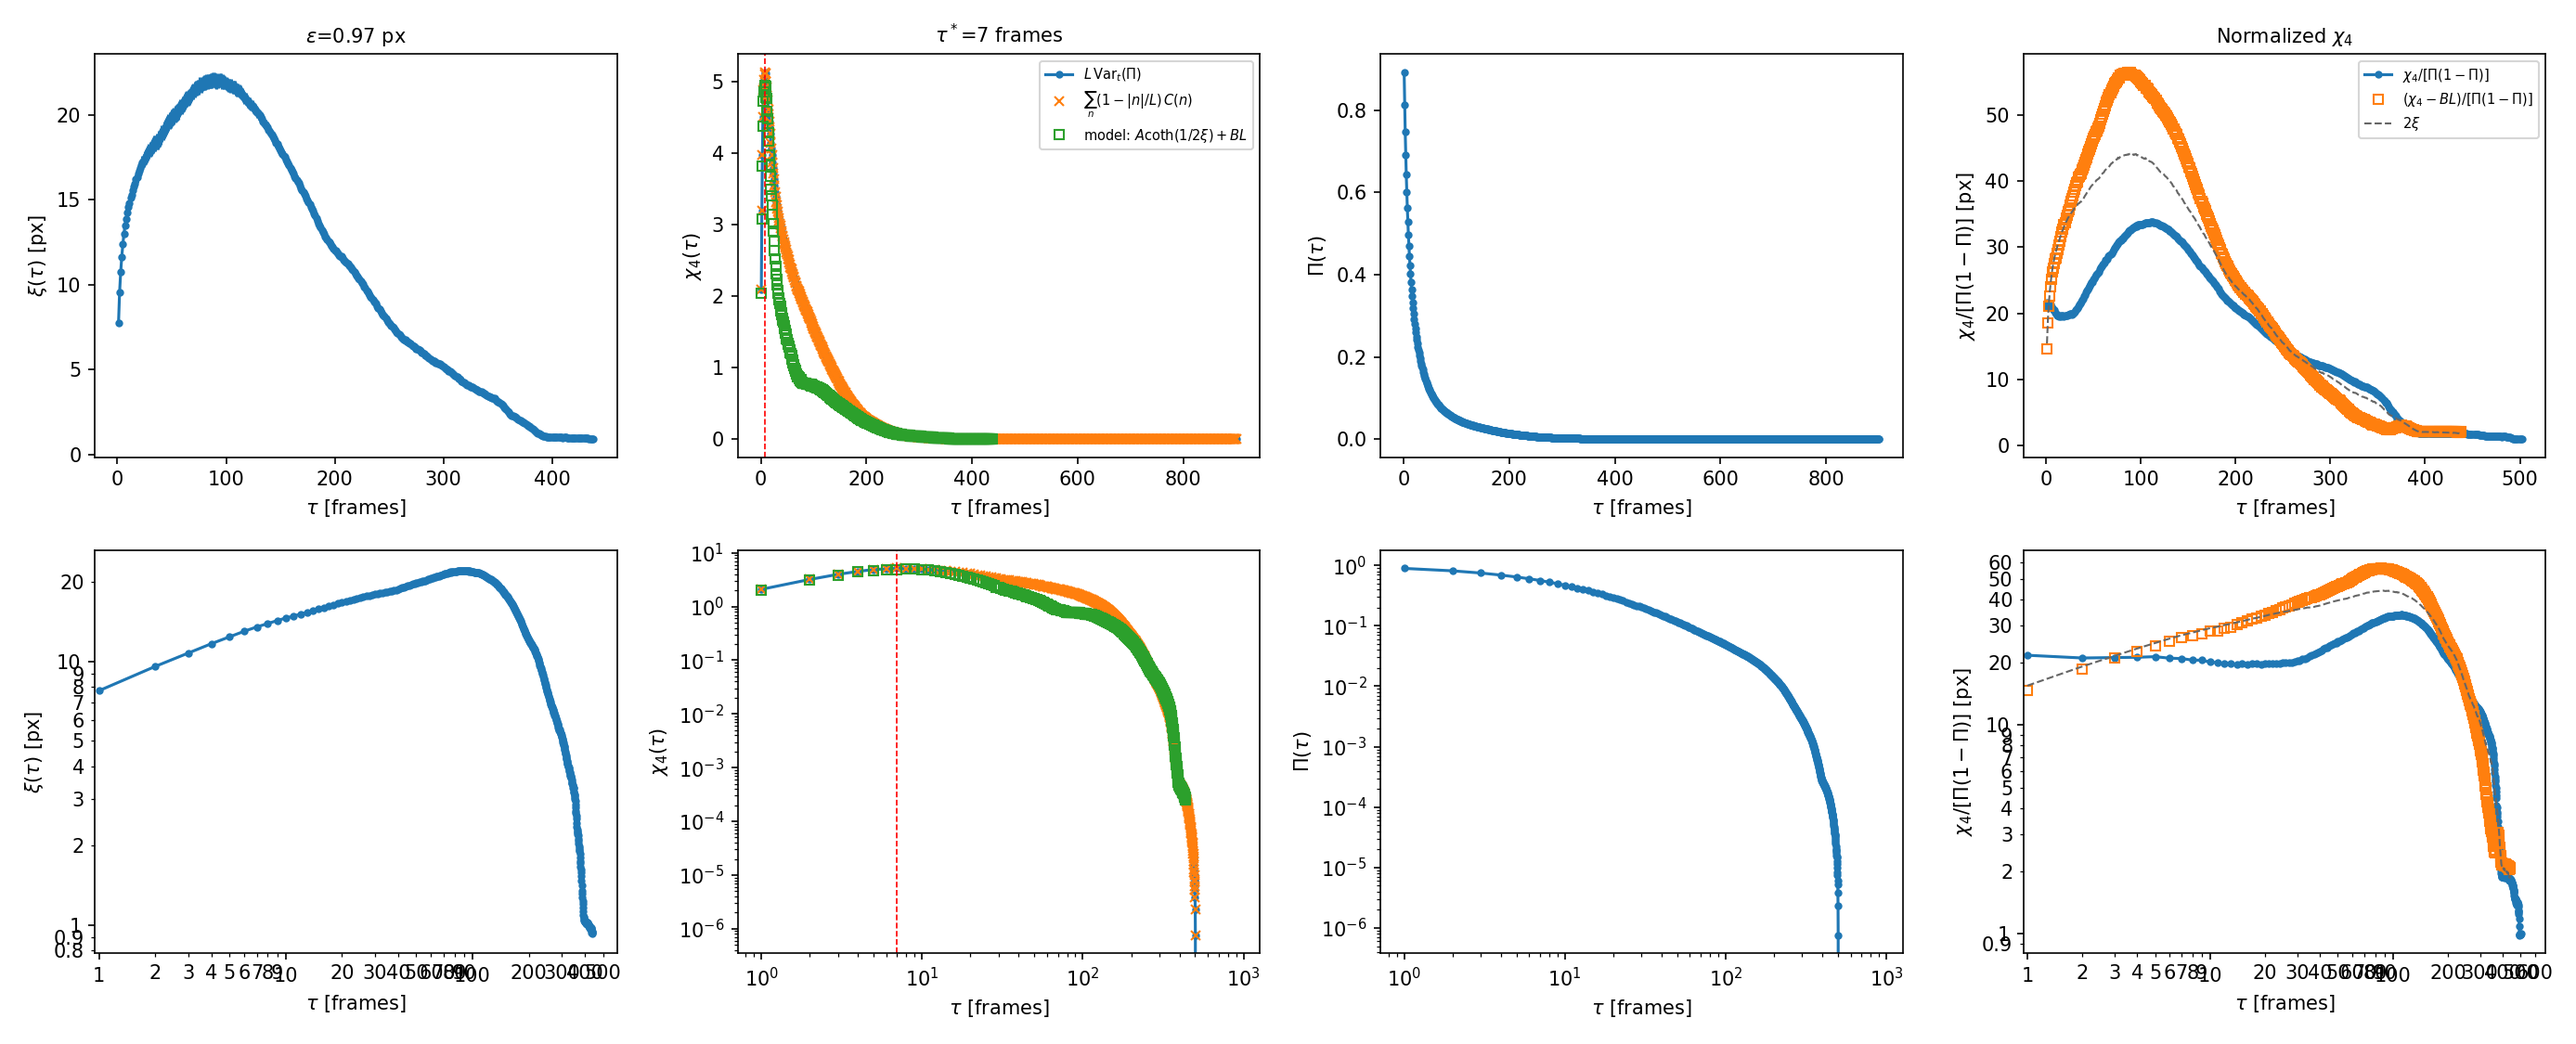
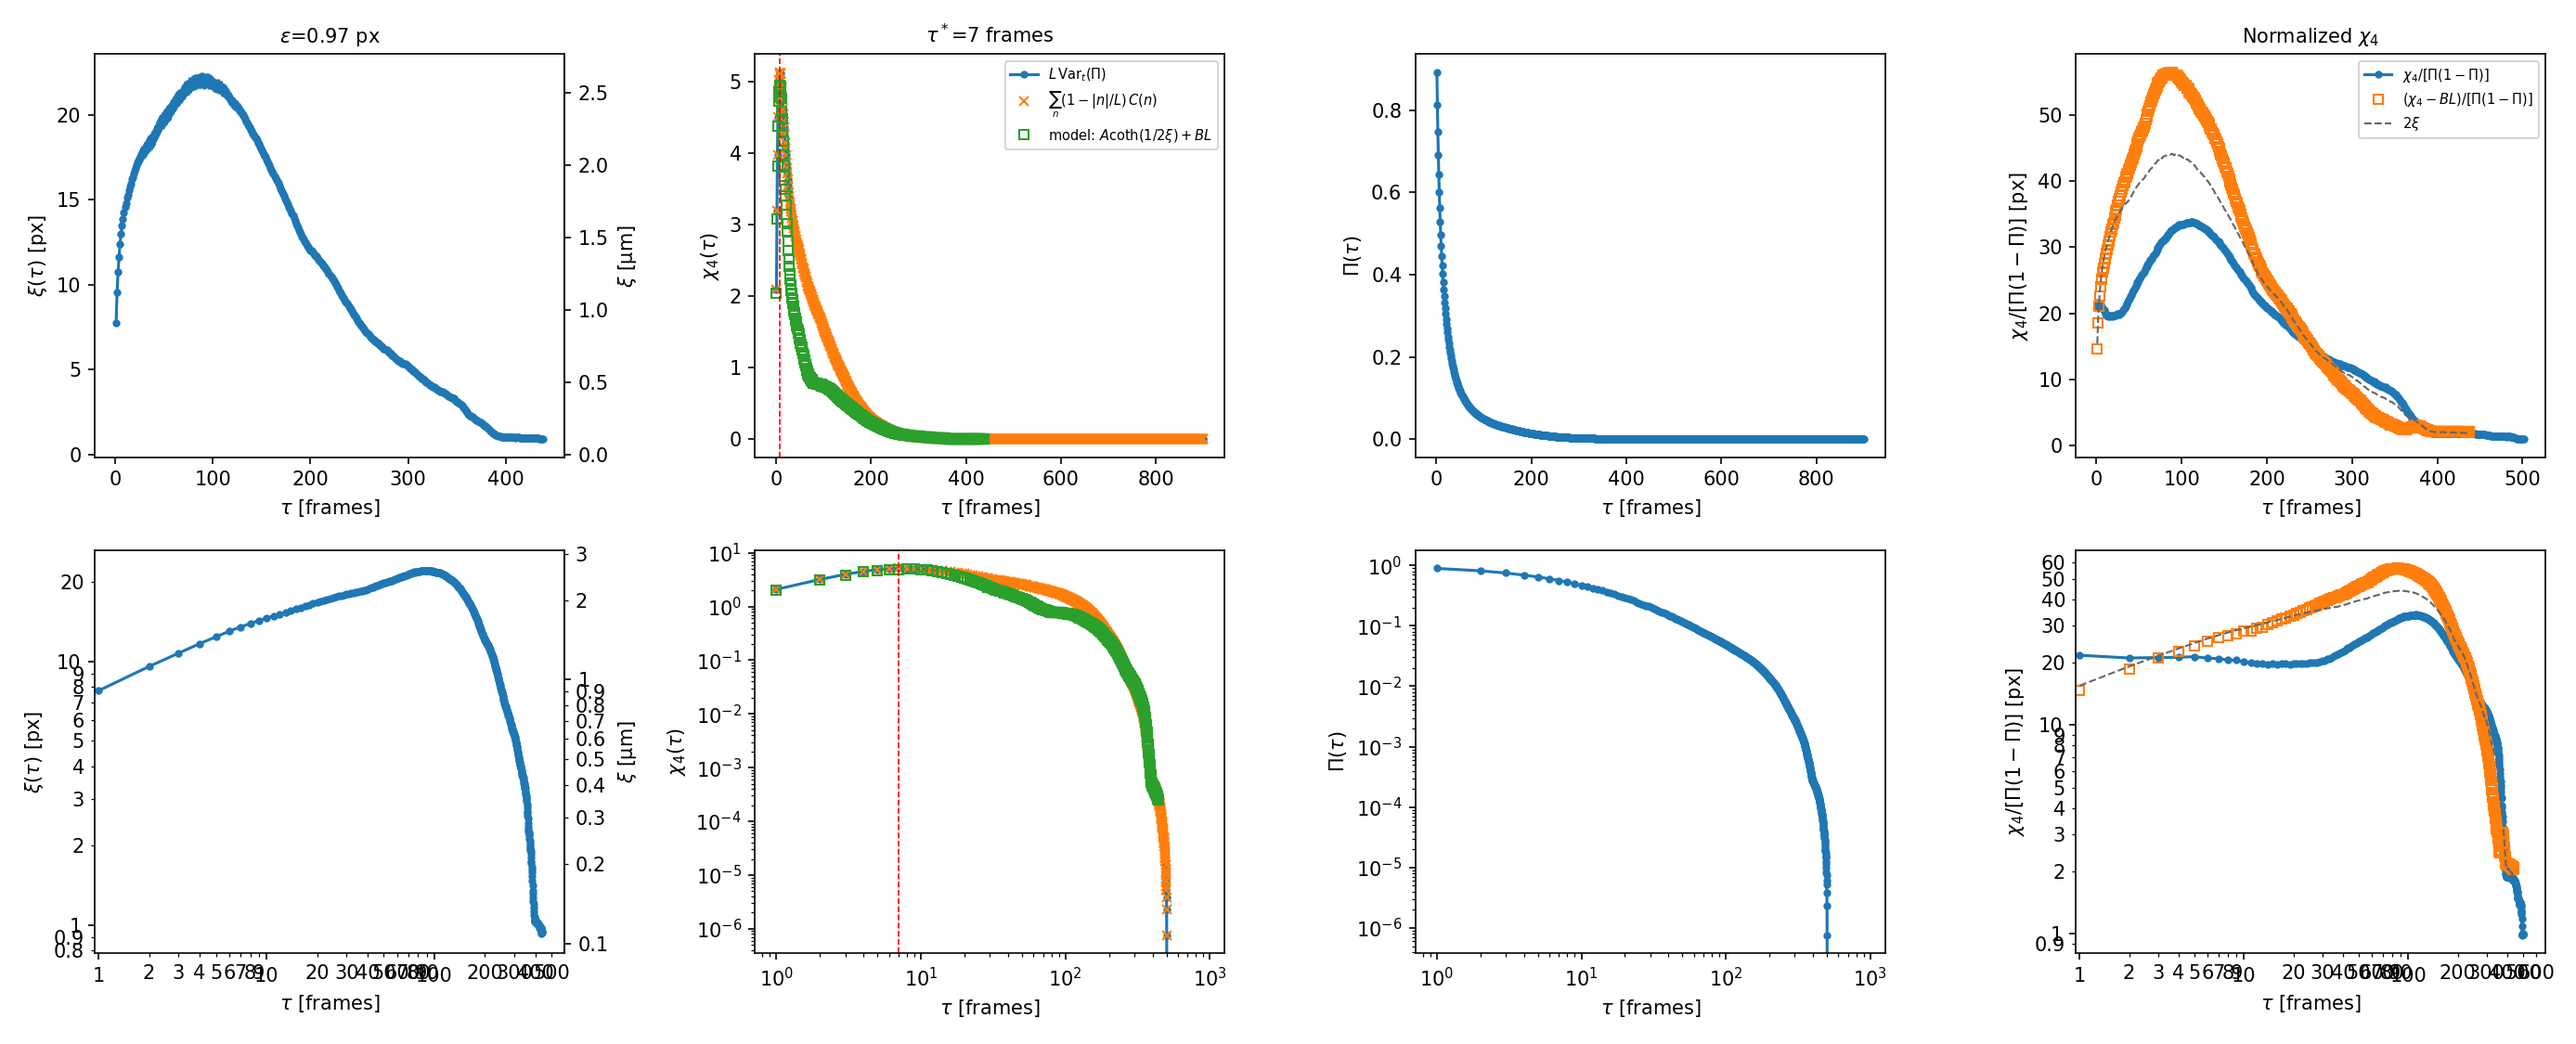
Study 2: set scale to 0.1175 µm/px from the thesis material
The 20x scale is obtained from the thesis of this same measurement:
the 20 px minimum avalanche area corresponds to ~0.28 µm² (0.118 µm/px),
and the 5x scale bars of the defense slides (0.47 µm/px) scaled by 4
give 0.1175 µm/px. Not the Study 1 value (0.17 µm/px).

- meta.json: um_per_px = 0.1175; row-mean results and figures rerun with µm axes
- REPORT: values in µm (xi(tau*) = 1.59 µm, xi_max ~ 2.6 µm, v = 1.65 nm/s)
- step2: velocity printed with 3 significant digits (it was rounded to 0.0 µm/s)

Claude-Session: https://claude.ai/code/session_01AAEqMPogvcjhkUnN5Zourk

diff --git a/step2_persistence.py b/step2_persistence.py
@@ -252,6 +252,6 @@ print("\n=== SUMMARY ===")
 print(f"sigma_noise(x) = {sigma_noise:.2f} px; sigma_Dh = {sigma_dh:.2f} px; dt = {fmt_time(1)}/frame")
 v = -np.diff(h.mean(1)).mean()
 print(f"mean wall velocity = {v:.2f} px/frame"
-      + (f" = {v * args.um_per_px * args.fps:.1f} µm/s" if args.um_per_px else ""))
+      + (f" = {v * args.um_per_px * args.fps:.3g} µm/s" if args.um_per_px else ""))
 for s in summary:
     print(s)

diff --git a/0_8A_15s_20x_RT_1/REPORT.md b/0_8A_15s_20x_RT_1/REPORT.md
@@ -7,11 +7,15 @@ First report, 2026-10-06. Pipeline and definitions: see the [README](../README.m
 - Micro-Manager 1.4 acquisition, recorded 2015-11-19 (17:15:57 → 03:15:37), folder `…/ResumenMaestría_Mati/0_8A_15s_20x_RT_1/Pos0/`, not in the repository.
 - 1800 frames, 1392×1040 px, 14-bit (uint16), 1 s exposure, 20x objective, room temperature; the name suggests a drive of 0.8 A.
 - **Δt = 20 s, not 15 s as the folder name says.** The metadata `Interval_ms = 20000`, the per-frame elapsed times (1791 of 1799 intervals are 20.0 s) and the wall-clock stamps (35 980 s over 1799 intervals) agree. Total duration 10.0 h.
-- **No pixel size** in the metadata (`PixelSize_um = 0`): everything below is in px. Lengths can be converted once the µm/px of the 20x setup is known.
+- **Scale δ = 0.1175 µm/px** (field of view ≈ 164 × 122 µm). The metadata has no pixel size (`PixelSize_um = 0`); the value comes from the thesis material of this same measurement (M. Grassi, master's thesis, `…/ResumenMaestría_Mati/`), by two independent routes:
+  1. The thesis avalanche analysis of this measurement discards events smaller than 20 px and states that avalanches below S ≈ 0.3 µm² cannot be resolved; its area histograms (`Data/Histogramas_lineal`, `Data/Histogramas_log`) start at 0.27–0.28 µm². So 20 px ≈ 0.28 µm², i.e. 0.014 µm²/px → 0.118 µm/px.
+  2. The scale bars of the full 1392×1040 frames in the defense slides (slides 11 and 13, 100 µm = 213 px) give 0.47 µm/px. Those images belong to the velocity measurements, done with the 5x objective; scaled to the 20x, 0.47/4 = 0.1175 µm/px.
+
+  This is **not** the scale of Study 1 (0.17 µm/px). The uncertainty is a few %; route 1 rests on the histogram binning, route 2 on the nominal 4x ratio of the objectives.
 - Geometry: one wall, roughly vertical but tilted (θ ≈ −10° to −14° from vertical), with the dark domain on the left growing to the right. Many static round defects (bubbles/dust), several of them on the wall path.
 
 ```bash
-python step1_extract_wall.py /media/…/0_8A_15s_20x_RT_1/Pos0 --um-per-px 0
+python step1_extract_wall.py /media/…/0_8A_15s_20x_RT_1/Pos0 --um-per-px 0.1175
 python step2_persistence.py 0_8A_15s_20x_RT_1                       # eps = 0.97 (3σ_Δh), 1, 2
 python step2_persistence.py 0_8A_15s_20x_RT_1 --eps 0.5 1.5 3 5
 python step3_eps_sweep.py 0_8A_15s_20x_RT_1
@@ -29,30 +33,30 @@ Details in the README (step 1, *TIFF folder input*). Points specific to this dat
 - **Contrast.** The domain contrast is only ~5 % of the raw intensity, below the vignetting. Per-pixel bright/dark references cancel it, and also cancel the static defects (8841 px of defects inside the swept area get the arrival time of their neighbours).
 - **Overhangs.** The wall folds around defects: on average 54 of 1006 rows cross the wall more than once. The position used for the analysis is the switched area per row, x_eff(y,t). It equals the front where the wall is single-valued (91.6 % of row-frames). Using the front instead gave 877 one-frame jumps > 20 px, almost all of them pinch-offs of thin unswitched channels between defects with no real switching (checked on ratio images); with x_eff there are 116, and the largest ones checked are real avalanches (compact patches of 30–50 px switching within one frame).
 - **Segmentation check.** The overlays (`fig_qc_overlay.png`, `qc/overlay.mp4` with all 1800 frames, `qc/overlay_NNNN.png` every 50 frames) follow the wall, including next to the defects. The method was approved on a 1-in-10 subset before the full run.
-- **Motion.** Total advance 509 px, mean velocity **0.28 px/frame = 0.014 px/s**, no retreats > 1 px (`fig_h_mean.png`). The motion is intermittent, with avalanches of up to 44 px in one row and one frame (`fig_kymograph.png`).
-- **Noise.** σ_Δh = 0.32 px (from backward one-frame steps), so the default ε = 3σ_Δh = 0.97 px.
+- **Motion.** Total advance 509 px = 60 µm, mean velocity **0.28 px/frame = 1.65 nm/s**, no retreats > 1 px (`fig_h_mean.png`). The motion is intermittent, with avalanches of up to 44 px (5 µm) in one row and one frame (`fig_kymograph.png`).
+- **Noise.** σ_Δh = 0.32 px = 38 nm (from backward one-frame steps), so the default ε = 3σ_Δh = 0.97 px = 0.11 µm.
 - **Tilt.** θ goes from −12.8° to −9.8° (`fig_tilt_overhang.png`). h is measured along x and the distance n along y; the corrections to a normal displacement (cos θ) and to a distance along the wall (1/cos θ) are ≈ 2 % and are not applied below.
 
 ## Results
 
 C(n,τ) is computed with the mean persistence of each row subtracted (`step2 --row-mean`, files `*_sub_rm_*`), C(n) = ⟨(p_i − m_i)(p_{i+n} − m_{i+n})⟩ with m_i = ⟨p_i⟩_t. The reason is explained under *Row-mean subtraction* below. χ4 and Π do not change; ξ does, slightly.
 
-| ε [px] | Π(τ=1) | τ at Π = ½ | **τ\*** (max χ4) | χ4(τ\*) | **ξ(τ\*)** [px] | max ξ [px] (at τ) |
+| ε [px] (µm) | Π(τ=1) | τ at Π = ½ | **τ\*** (max χ4) | χ4(τ\*) | **ξ(τ\*)** [px] (µm) | max ξ [px] (µm) at τ |
 |---|---|---|---|---|---|---|
-| 0.5 | 0.78 | 6 | 5 (100 s) | 4.6 | 12.2 ± 0.2 | 21.4 (80) |
-| **0.97** | 0.89 | 9 | **7 (2.3 min)** | 5.1 | **13.5 ± 0.1** | 22.1 (89) |
-| 1.5 | 0.94 | 13 | 11 (3.7 min) | 6.0 | 15.2 ± 0.2 | 23.3 (89) |
-| 2 | 0.96 | 14 | 14 (4.7 min) | 6.0 | 15.8 ± 0.2 | 23.2 (94) |
-| 3 | 0.98 | 18 | 17 (5.7 min) | 6.0 | 16.3 ± 0.3 | 23.2 (99) |
-| 5 | 0.99 | 25 | 24 (8 min) | 6.4 | 17.2 ± 0.3 | 23.6 (112) |
+| 0.5 (0.06) | 0.78 | 6 | 5 (100 s) | 4.6 | 12.2 ± 0.2 (1.43) | 21.4 (2.51) at 80 |
+| **0.97 (0.11)** | 0.89 | 9 | **7 (2.3 min)** | 5.1 | **13.5 ± 0.1 (1.59)** | 22.1 (2.60) at 89 |
+| 1.5 (0.18) | 0.94 | 13 | 11 (3.7 min) | 6.0 | 15.2 ± 0.2 (1.79) | 23.3 (2.74) at 89 |
+| 2 (0.24) | 0.96 | 14 | 14 (4.7 min) | 6.0 | 15.8 ± 0.2 (1.86) | 23.2 (2.73) at 94 |
+| 3 (0.35) | 0.98 | 18 | 17 (5.7 min) | 6.0 | 16.3 ± 0.3 (1.92) | 23.2 (2.73) at 99 |
+| 5 (0.59) | 0.99 | 25 | 24 (8 min) | 6.4 | 17.2 ± 0.3 (2.02) | 23.6 (2.77) at 112 |
 
 τ in frames (1 frame = 20 s). Errors are statistical (fit). Figures: `fig_xi_chi4_sub_rm_eps<ε>.png`, `fig_Cn_tau_sub_rm_eps<ε>.png`, `fig_eps_sweep_sub_rm.png`; the same without row-mean subtraction: `*_sub_eps<ε>*`, `fig_eps_sweep_sub.png`.
 
 ### Main findings
 
-1. **τ\* is resolved.** Unlike Study 1, χ4(τ) rises, peaks and decays. At ε = 3σ_Δh = 0.97 px, **τ\* = 7 frames ≈ 2.3 min**, with **ξ(τ\*) = 13.5 ± 0.1 (stat.) ± 0.3 (fit) px**.
+1. **τ\* is resolved.** Unlike Study 1, χ4(τ) rises, peaks and decays. At ε = 3σ_Δh = 0.97 px, **τ\* = 7 frames ≈ 2.3 min**, with **ξ(τ\*) = 13.5 ± 0.1 (stat.) ± 0.3 (fit) px = 1.59 ± 0.04 µm**. Over ε = 0.5–5 px, ξ(τ\*) = 1.4–2.0 µm.
 2. **τ\* is set by Π(τ\*) ≈ ½.** For every ε, τ\* is at or 1–3 frames before the lag at which half of the rows have moved by more than ε. So τ\* grows with ε (5 → 24 frames for ε = 0.5 → 5 px) and mostly measures the time to move a distance ε, as expected when χ4 ≈ Π(1−Π) × (correlated length). The peak χ4 itself (4.6–6.4) and ξ(τ\*) (12–17 px) depend more weakly on ε.
-3. **The correlation length keeps growing well beyond τ\*.** ξ(τ) increases from ~8 px at τ = 1 to a maximum of **ξ_max ≈ 21–24 px at τ ≈ 80–110 frames (27–37 min)**, then decays as Π → 0. ξ_max changes by only ±1 px over a factor 10 in ε, so **ξ_max and its time scale of ~30 min are the most robust results** of this study, together with τ\*. The raw χ4 peaks much earlier only because its amplitude Π(1−Π) falls.
+3. **The correlation length keeps growing well beyond τ\*.** ξ(τ) increases from ~8 px at τ = 1 to a maximum of **ξ_max ≈ 21–24 px = 2.5–2.8 µm at τ ≈ 80–110 frames (27–37 min)**, then decays as Π → 0. ξ_max changes by only ±1 px over a factor 10 in ε, so **ξ_max and its time scale of ~30 min are the most robust results** of this study, together with τ\*. The raw χ4 peaks much earlier only because its amplitude Π(1−Π) falls.
 4. **χ4 and ξ are consistent at short τ.** C(n,τ) is exponential: (C−B)/A is a straight line on the semilog plot down to ~2 % of its amplitude. For τ ≲ 30 frames, the local normalized susceptibility (χ4 − B·L)/[Π(1−Π)] follows 2ξ, and the sum of the fitted model A·coth(1/2ξ) + B·L reproduces the direct χ4 within 4–20 % at τ\* (4 % at ε = 0.97 px, 20 % at ε = 5 px). For τ ≳ 50 frames the model sum falls below χ4: correlations at long lags are not a single exponential.
 5. **Integer h** (`--int`, cross-check, no row-mean subtraction): ε = 1 px gives τ\* = 6 frames, ξ(τ\*) = 15.6 ± 0.3 px; ε = 2 px gives τ\* = 13 frames, ξ(τ\*) = 16.7 ± 0.3 px, consistent with the subpixel results.
 
@@ -73,13 +77,12 @@ So the fit-range ambiguity of ξ(τ\*) (±2 px before) disappears. At long lags 
 
 ### Caveats
 
-- **Units.** Lengths are in px until the µm/px of the 20x objective is known.
+- **Resolution.** ξ(τ\*) ≈ 1.6 µm is close to the optical resolution of the 20x objective (~1 µm, NA 0.4, thesis) and spans ~14 px; ξ is resolved, but its smallest values (ξ ≈ 0.5–0.9 µm at τ = 1, depending on ε) are at the resolution limit.
 - **ξ is measured along y**, not along the wall; the 1/cos θ correction (≈ 2 %) is not applied.
 - `fig_eps_sweep_*.png`, panel 3, shows ξ and χ4 at τ = 1 frame, which is meaningful for Study 1 (τ\* ≤ 1 frame) but not here, where τ\* = 5–24 frames; the table above gives the values at τ\*.
 
 ## Next steps
 
-- Get the µm/px of the 20x objective to convert ξ (and the velocity, 0.014 px/s).
 - Map the per-row mean persistence m_i (and mean velocity per row) against the defect positions: the static heterogeneity removed by the row-mean subtraction is itself a measure of the pinning landscape.
 - Adapt step 3 to show ξ(τ\*) and ξ_max against ε instead of the τ = 1 values.
 - Avalanche statistics: the 20 s resolution and the clean x_eff(y,t) make a direct measurement of avalanche sizes and lateral extents feasible (Δx_eff between consecutive frames, clusters of moved rows).

diff --git a/README.md b/README.md
@@ -13,7 +13,7 @@ Each data set is a separate study with its own folder and report:
 | Study | Data | Report |
 |---|---|---|
 | 1 | `magnetic_fliped/`: video, 78 frames at 25 fps (Δt = 40 ms), 0.17 µm/px, wall moving upward | [`magnetic_fliped/REPORT.md`](magnetic_fliped/REPORT.md) |
-| 2 | `0_8A_15s_20x_RT_1/`: 1800 Micro-Manager TIFF frames, Δt = 20 s (10 h), 20x, wall moving to the right | [`0_8A_15s_20x_RT_1/REPORT.md`](0_8A_15s_20x_RT_1/REPORT.md) |
+| 2 | `0_8A_15s_20x_RT_1/`: 1800 Micro-Manager TIFF frames, Δt = 20 s (10 h), 20x, 0.1175 µm/px, wall moving to the right | [`0_8A_15s_20x_RT_1/REPORT.md`](0_8A_15s_20x_RT_1/REPORT.md) |
 
 Requires numpy, scipy, matplotlib and scikit-image; for videos also imageio-ffmpeg (or an `ffmpeg` binary on the PATH); for TIFF folders also tifffile and Pillow, and ffmpeg for the QC movie.
 
